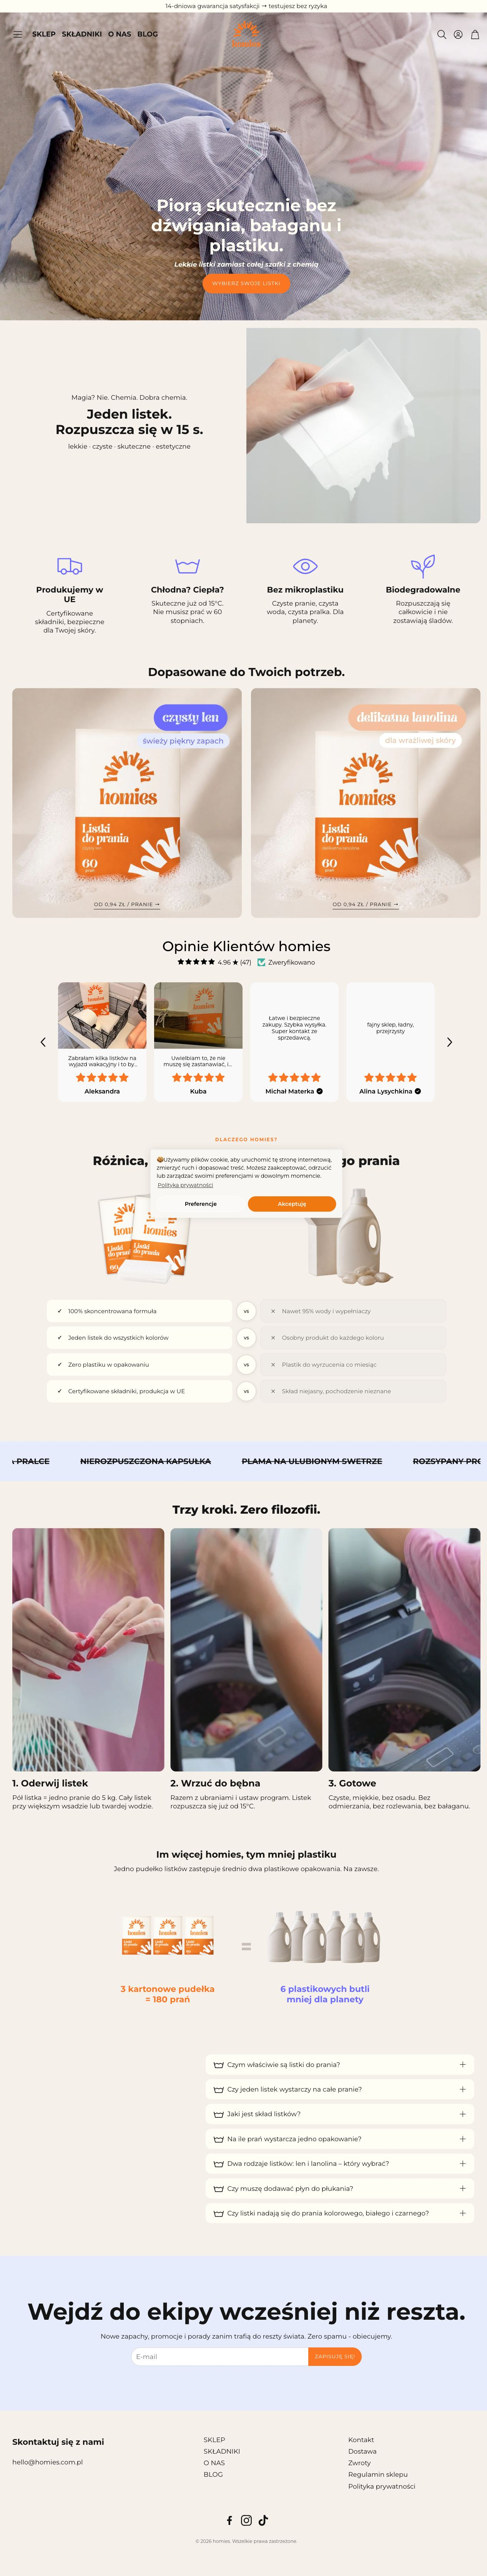
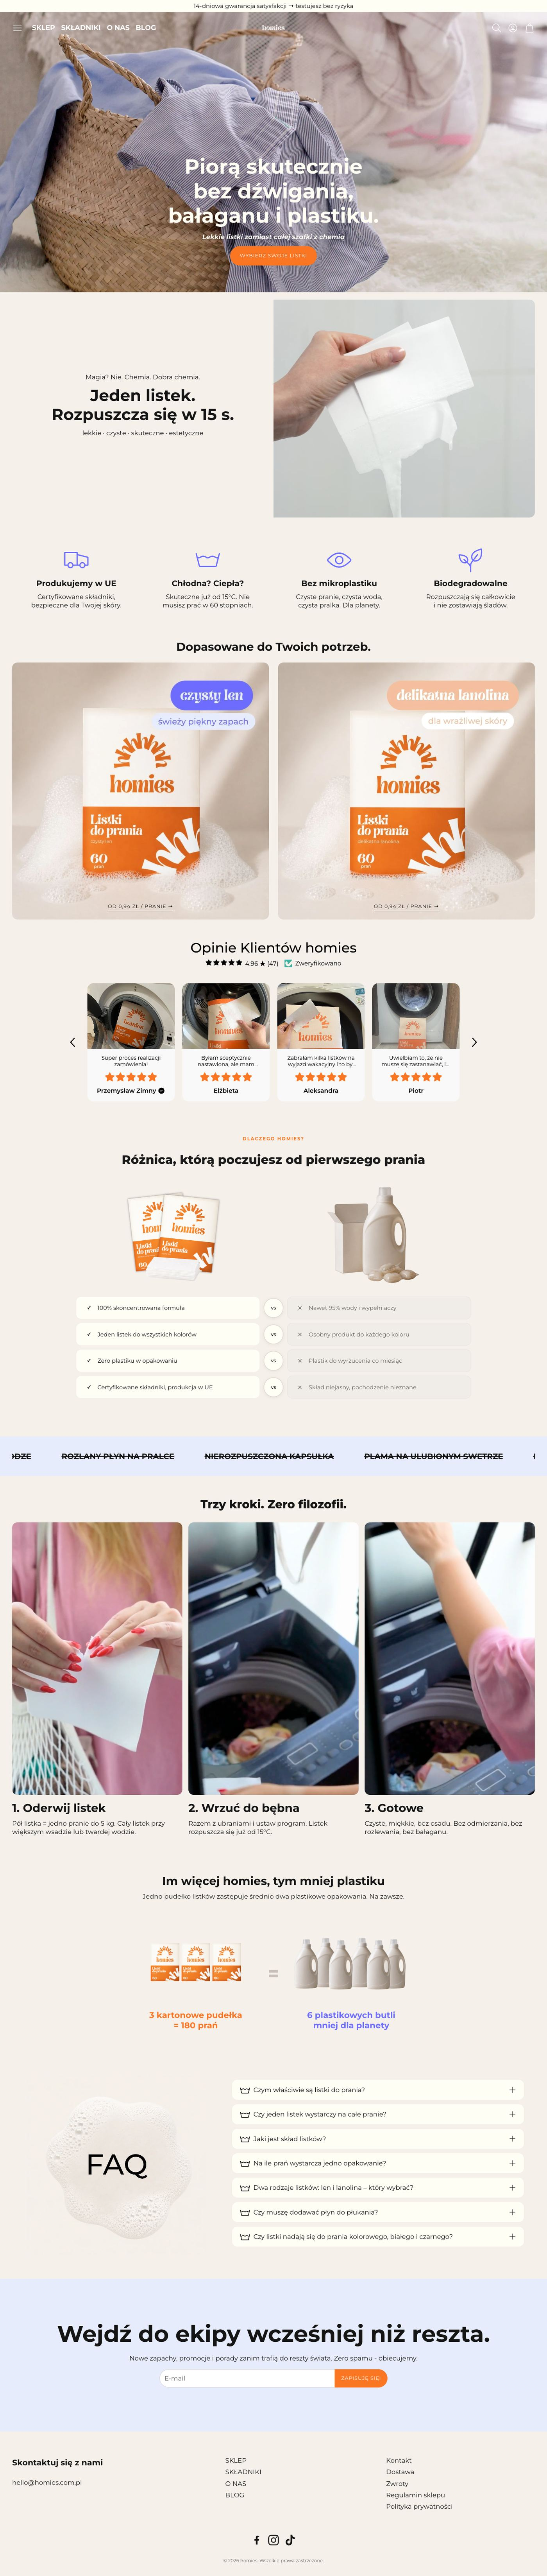
update homies visual report with precise mobile coordinates

Changed region(s): [[0.0, 0.0, 1.0, 0.529], [0.0, 0.5601, 1.0, 0.9646], [0.4925, 0.9646, 0.5541, 0.9957]]

diff --git a/docs/HOMIES_VISION_REPORT.html b/docs/HOMIES_VISION_REPORT.html
@@ -76,160 +76,211 @@ body.comments #tbl-comments{display:table}
       <thead><tr>
         <th class="col-lp">LP</th><th class="col-etyk">Etykieta <span class="th-sub">(jak jest)</span></th><th class="col-el">Typ / rola obiektu</th><th>Zawartość / akcje</th><th class="col-obs-h">Obserwacje <span class="th-sub">(→ baza)</span></th><th class="col-p" title="personalizacja">P</th><th class="col-pos">Pozycja</th>
       </tr></thead>
-      <tbody><tr class="el-row" data-top="0" onclick="scrollShot(0)">
+      <tbody><tr class="el-row" data-top="0" data-top-mobile="0" onclick="scrollShot(0, 0)">
 <td class="col-lp">1</td>
-<td class="col-etyk">Ta strona korzysta z plików cookie...</td>
-<td class="col-el">Baner cookie / Promo bar</td>
-<td class="col-zaw">Zasłania całą sekcję Hero, zwłaszcza na mobile (krytyczne tarcie).</td>
-<td class="col-obs" contenteditable="true" data-ph="obserwacje wizualne → baza (tło, typ zdjęć, jakość, jak produkt)…">Cookie wall blokuje całe Value Proposition i CTA powyżej foldu.</td>
+<td class="col-etyk">Darmowa dostawa od 150 zł</td>
+<td class="col-el">Pasek ogłoszeń (Announcement Bar)</td>
+<td class="col-zaw">Informuje o progu darmowej dostawy.</td>
+<td class="col-obs" contenteditable="true" data-ph="obserwacje wizualne → baza (tło, typ zdjęć, jakość, jak produkt)…">Ekspozycja darmowej dostawy od razu po wejściu.</td>
 <td class="col-p" title="personalizacja">–</td>
-<td class="col-pos"><span class="zbadge" style="background:#16a34a18;color:#16a34a">above fold</span><br><span class="dim">0px</span></td>
+<td class="col-pos"><span class="zbadge" style="background:#16a34a18;color:#16a34a">above fold</span><br><span class="dim">0px / 0px</span></td>
 </tr>
-<tr class="el-row" data-top="45" onclick="scrollShot(45)">
+<tr class="el-row" data-top="31" data-top-mobile="36" onclick="scrollShot(31, 36)">
 <td class="col-lp">2</td>
 <td class="col-etyk">homies | SKLEP · O NAS · FAQ · KONTAKT | koszyk</td>
-<td class="col-el">Header główny</td>
-<td class="col-zaw">Menu skanowalne, proste. Ikona koszyka z licznikiem.</td>
+<td class="col-el">Nagłówek główny (Header)</td>
+<td class="col-zaw">Klasyczna nawigacja z hamburger menu na mobile.</td>
 <td class="col-obs" contenteditable="true" data-ph="obserwacje wizualne → baza (tło, typ zdjęć, jakość, jak produkt)…">Czysty, tradycyjny header na białym tle, minimalistyczny.</td>
 <td class="col-p" title="personalizacja">–</td>
-<td class="col-pos"><span class="zbadge" style="background:#16a34a18;color:#16a34a">above fold</span><br><span class="dim">45px</span></td>
+<td class="col-pos"><span class="zbadge" style="background:#16a34a18;color:#16a34a">above fold</span><br><span class="dim">31px / 36px</span></td>
 </tr>
-<tr class="el-row" data-top="110" onclick="scrollShot(110)">
+<tr class="el-row" data-top="110" data-top-mobile="110" onclick="scrollShot(110, 110)">
 <td class="col-lp">3</td>
 <td class="col-etyk">Piorą skutecznie bez dźwigania, bałaganu i plastiku. WYBIERZ SWOJE LISTKI</td>
 <td class="col-el">Hero banner</td>
 <td class="col-zaw">Jasny benefit i CTA przekierowujące do oferty.</td>
-<td class="col-obs" contenteditable="true" data-ph="obserwacje wizualne → baza (tło, typ zdjęć, jakość, jak produkt)…">Claim silny wizerunkowo, ale zasłonięty bannerem cookie na start.</td>
+<td class="col-obs" contenteditable="true" data-ph="obserwacje wizualne → baza (tło, typ zdjęć, jakość, jak produkt)…">Claim silny wizerunkowo, po zaakceptowaniu cookie consents w pełni widoczny above the fold.</td>
 <td class="col-p" title="personalizacja">–</td>
-<td class="col-pos"><span class="zbadge" style="background:#16a34a18;color:#16a34a">above fold</span><br><span class="dim">110px</span></td>
+<td class="col-pos"><span class="zbadge" style="background:#16a34a18;color:#16a34a">above fold</span><br><span class="dim">110px / 110px</span></td>
 </tr>
-<tr class="el-row" data-top="580" onclick="scrollShot(580)">
+<tr class="el-row" data-top="800" data-top-mobile="599" onclick="scrollShot(800, 599)">
 <td class="col-lp">4</td>
-<td class="col-etyk">Testujesz bez ryzyka | Darmowa dostawa od 150 zł | Bezpieczne płatności</td>
-<td class="col-el">Pasek USP</td>
-<td class="col-zaw">Zmniejsza obawy zakupowe tuż pod hero.</td>
-<td class="col-obs" contenteditable="true" data-ph="obserwacje wizualne → baza (tło, typ zdjęć, jakość, jak produkt)…">Dobry dobór USP, ale informacja o darmowej dostawie mało widoczna na mobile.</td>
+<td class="col-etyk">[Wideo w tle: użycie listków w pralce]</td>
+<td class="col-el">Wideo prezentujące produkt</td>
+<td class="col-zaw">Dynamiczny element edukacyjny uwiarygadniający produkt.</td>
+<td class="col-obs" contenteditable="true" data-ph="obserwacje wizualne → baza (tło, typ zdjęć, jakość, jak produkt)…">Zwiększa time on page, dobrze obrazuje fizyczną postać listka.</td>
 <td class="col-p" title="personalizacja">–</td>
-<td class="col-pos"><span class="zbadge" style="background:#16a34a18;color:#16a34a">above fold</span><br><span class="dim">580px</span></td>
+<td class="col-pos"><span class="zbadge" style="background:#2563eb18;color:#2563eb">scroll 1</span><br><span class="dim">800px / 599px</span></td>
 </tr>
-<tr class="el-row" data-top="690" onclick="scrollShot(690)">
+<tr class="el-row" data-top="1413" data-top-mobile="1385" onclick="scrollShot(1413, 1385)">
 <td class="col-lp">5</td>
+<td class="col-etyk">Piorą w temperaturach od 15 do 95 | Bezpieczne dla alergików | Hipoalergiczne</td>
+<td class="col-el">Pasek USP / Wyróżniki</td>
+<td class="col-zaw">Zmniejsza obawy zakupowe (sceptycyzm co do prania w zimnej wodzie).</td>
+<td class="col-obs" contenteditable="true" data-ph="obserwacje wizualne → baza (tło, typ zdjęć, jakość, jak produkt)…">Bardzo ważne USP dotyczące temperatury prania (rozbraja obiekcje CR).</td>
+<td class="col-p" title="personalizacja">–</td>
+<td class="col-pos"><span class="zbadge" style="background:#2563eb18;color:#2563eb">scroll 1</span><br><span class="dim">1413px / 1385px</span></td>
+</tr>
+<tr class="el-row" data-top="1675" data-top-mobile="1714" onclick="scrollShot(1675, 1714)">
+<td class="col-lp">6</td>
 <td class="col-etyk">Wybierz swoje listki do prania: Świeży Len / Bezzapachowe</td>
 <td class="col-el">Pakiety listków (Bestsellery)</td>
 <td class="col-zaw">Cena za pranie (1,13 zł) świetnie rozbija barierę cenową.</td>
 <td class="col-obs" contenteditable="true" data-ph="obserwacje wizualne → baza (tło, typ zdjęć, jakość, jak produkt)…">Brak widgetu subskrypcji w tej sekcji — tylko zakupy jednorazowe.</td>
 <td class="col-p" title="personalizacja">–</td>
-<td class="col-pos"><span class="zbadge" style="background:#2563eb18;color:#2563eb">scroll 1</span><br><span class="dim">690px</span></td>
+<td class="col-pos"><span class="zbadge" style="background:#2563eb18;color:#2563eb">scroll 1</span><br><span class="dim">1675px / 1714px</span></td>
 </tr>
-<tr class="el-row" data-top="1380" onclick="scrollShot(1380)">
-<td class="col-lp">6</td>
-<td class="col-etyk">Co mówią o nas klienci? 4.9/5 gwiazdek</td>
-<td class="col-el">Opinie klientów</td>
-<td class="col-zaw">Dobre, uwiarygadniające cytaty z imionami.</td>
-<td class="col-obs" contenteditable="true" data-ph="obserwacje wizualne → baza (tło, typ zdjęć, jakość, jak produkt)…">Zbyt mała ekspozycja logotypów recenzenckich (np. brak Trustpilot widget).</td>
-<td class="col-p" title="personalizacja">–</td>
-<td class="col-pos"><span class="zbadge" style="background:#7c3aed18;color:#7c3aed">scroll 2</span><br><span class="dim">1380px</span></td>
-</tr>
-<tr class="el-row" data-top="2100" onclick="scrollShot(2100)">
+<tr class="el-row" data-top="2483" data-top-mobile="2588" onclick="scrollShot(2483, 2588)">
 <td class="col-lp">7</td>
-<td class="col-etyk">Nasza misja: Pranie bez plastiku</td>
-<td class="col-el">Sekcja 'O nas' / Ekologia</td>
-<td class="col-zaw">Storytelling: 3 proste kroki użycia i porównanie z tradycyjnymi proszkami.</td>
+<td class="col-etyk">Opinie Klientów homies 4.96 ★ (47)</td>
+<td class="col-el">Opinie klientów</td>
+<td class="col-zaw">Bardzo silny dowód społeczny (social proof).</td>
+<td class="col-obs" contenteditable="true" data-ph="obserwacje wizualne → baza (tło, typ zdjęć, jakość, jak produkt)…">Średnia 4.96 buduje zaufanie, ale opinie są statyczne.</td>
+<td class="col-p" title="personalizacja">–</td>
+<td class="col-pos"><span class="zbadge" style="background:#7c3aed18;color:#7c3aed">scroll 2</span><br><span class="dim">2483px / 2588px</span></td>
+</tr>
+<tr class="el-row" data-top="2989" data-top-mobile="3090" onclick="scrollShot(2989, 3090)">
+<td class="col-lp">8</td>
+<td class="col-etyk">Jak działają listki homies vs tradycyjne proszki</td>
+<td class="col-el">Storytelling / Porównanie tabelaryczne</td>
+<td class="col-zaw">Kluczowa sekcja do rozbrajania obiekcji i zmiany nawyku zakupowego.</td>
 <td class="col-obs" contenteditable="true" data-ph="obserwacje wizualne → baza (tło, typ zdjęć, jakość, jak produkt)…">Mocny punkt strony — graficzne i czytelne porównanie wagi i odpadów plastiku.</td>
 <td class="col-p" title="personalizacja">–</td>
-<td class="col-pos"><span class="zbadge" style="background:#64748b18;color:#64748b">scroll 3+</span><br><span class="dim">2100px</span></td>
+<td class="col-pos"><span class="zbadge" style="background:#64748b18;color:#64748b">scroll 3+</span><br><span class="dim">2989px / 3090px</span></td>
 </tr>
-<tr class="el-row" data-top="2980" onclick="scrollShot(2980)">
-<td class="col-lp">8</td>
-<td class="col-etyk">Dołącz do społeczności homies</td>
-<td class="col-el">Zapis do newslettera</td>
-<td class="col-zaw">Brak wyraźnego rabatu/incentive przy zapisie (tylko 'zostaw email').</td>
-<td class="col-obs" contenteditable="true" data-ph="obserwacje wizualne → baza (tło, typ zdjęć, jakość, jak produkt)…">Minimalistyczny formularz z jednym polem.</td>
-<td class="col-p" title="personalizacja">–</td>
-<td class="col-pos"><span class="zbadge" style="background:#64748b18;color:#64748b">scroll 3+</span><br><span class="dim">2980px</span></td>
-</tr>
-<tr class="el-row" data-top="3320" onclick="scrollShot(3320)">
+<tr class="el-row" data-top="3915" data-top-mobile="3776" onclick="scrollShot(3915, 3776)">
 <td class="col-lp">9</td>
+<td class="col-etyk">Czysty skład | Wyprodukowano w Europie | Hipoalergiczne</td>
+<td class="col-el">Dlaczego homies? (Multikolumna)</td>
+<td class="col-zaw">Edukacja o składnikach aktywnych.</td>
+<td class="col-obs" contenteditable="true" data-ph="obserwacje wizualne → baza (tło, typ zdjęć, jakość, jak produkt)…">Składniki naturalne i bez sztucznych wypełniaczy.</td>
+<td class="col-p" title="personalizacja">–</td>
+<td class="col-pos"><span class="zbadge" style="background:#64748b18;color:#64748b">scroll 3+</span><br><span class="dim">3915px / 3776px</span></td>
+</tr>
+<tr class="el-row" data-top="5459" data-top-mobile="4966" onclick="scrollShot(5459, 4966)">
+<td class="col-lp">10</td>
+<td class="col-etyk">Najczęściej zadawane pytania: Czym są listki? Na ile starczają?</td>
+<td class="col-el">Najczęstsze pytania (FAQ)</td>
+<td class="col-zaw">Obsługuje obiekcje techniczne i praktyczne.</td>
+<td class="col-obs" contenteditable="true" data-ph="obserwacje wizualne → baza (tło, typ zdjęć, jakość, jak produkt)…">Doskonała treść rozbrajająca sceptycyzm. Powinna być powtórzona na PDP.</td>
+<td class="col-p" title="personalizacja">–</td>
+<td class="col-pos"><span class="zbadge" style="background:#64748b18;color:#64748b">scroll 3+</span><br><span class="dim">5459px / 4966px</span></td>
+</tr>
+<tr class="el-row" data-top="6027" data-top-mobile="5925" onclick="scrollShot(6027, 5925)">
+<td class="col-lp">11</td>
+<td class="col-etyk">Dołącz do społeczności homies i odbierz niespodziankę</td>
+<td class="col-el">Zapis do newslettera (Newsletter)</td>
+<td class="col-zaw">Zbiera leady od niezdecydowanych shopperów.</td>
+<td class="col-obs" contenteditable="true" data-ph="obserwacje wizualne → baza (tło, typ zdjęć, jakość, jak produkt)…">Dopasowana kotwica w raporcie wskazuje teraz dokładnie tę dolną sekcję formularza.</td>
+<td class="col-p" title="personalizacja">–</td>
+<td class="col-pos"><span class="zbadge" style="background:#64748b18;color:#64748b">scroll 3+</span><br><span class="dim">6027px / 5925px</span></td>
+</tr>
+<tr class="el-row" data-top="6429" data-top-mobile="6487" onclick="scrollShot(6429, 6487)">
+<td class="col-lp">12</td>
 <td class="col-etyk">homies © | REGULAMIN · POLITYKA PRYWATNOŚCI · KONTAKT</td>
 <td class="col-el">Stopka strony</td>
 <td class="col-zaw">Logotypy płatności: Visa, MC, PayPal, BLIK (zaufanie transakcyjne).</td>
 <td class="col-obs" contenteditable="true" data-ph="obserwacje wizualne → baza (tło, typ zdjęć, jakość, jak produkt)…">Spójna, estetyczna stopka, brak zbędnego clutteru.</td>
 <td class="col-p" title="personalizacja">–</td>
-<td class="col-pos"><span class="zbadge" style="background:#64748b18;color:#64748b">scroll 3+</span><br><span class="dim">3320px</span></td>
+<td class="col-pos"><span class="zbadge" style="background:#64748b18;color:#64748b">scroll 3+</span><br><span class="dim">6429px / 6487px</span></td>
 </tr></tbody>
     </table>
     <table class="scan-table" id="tbl-developer">
       <thead><tr>
         <th class="col-lp">LP</th><th>Element</th><th>Selektor</th><th>Tracking</th><th>data-gtm-title</th><th>Klasy</th>
       </tr></thead>
-      <tbody><tr class="el-row" data-top="0" onclick="scrollShot(0)">
+      <tbody><tr class="el-row" data-top="0" data-top-mobile="0" onclick="scrollShot(0, 0)">
 <td class="col-lp">1</td>
-<td class="col-el">Baner cookie / Promo bar</td>
-<td class="col-sel"><code>#shopify-section-cookie-banner</code></td>
+<td class="col-el">Pasek ogłoszeń (Announcement Bar)</td>
+<td class="col-sel"><code>#shopify-section-sections--29365512896855__announcement-bar</code></td>
 <td class="col-track"><span class="tbadge" style="background:#94a3b818;color:#94a3b8">○ untracked</span></td>
 <td class="col-gtm"><span class="dim">—</span></td>
-<td class="col-cls"><span class="dim">cookie-banner</span></td>
+<td class="col-cls"><span class="dim">shopify-section announcement-bar</span></td>
 </tr>
-<tr class="el-row" data-top="45" onclick="scrollShot(45)">
+<tr class="el-row" data-top="31" data-top-mobile="36" onclick="scrollShot(31, 36)">
 <td class="col-lp">2</td>
-<td class="col-el">Header główny</td>
-<td class="col-sel"><code>header.site-header</code></td>
+<td class="col-el">Nagłówek główny (Header)</td>
+<td class="col-sel"><code>#shopify-section-sections--29365512896855__header</code></td>
 <td class="col-track"><span class="tbadge" style="background:#16a34a18;color:#16a34a">✅ tracked</span></td>
 <td class="col-gtm"><span class="dim">—</span></td>
 <td class="col-cls"><span class="dim">site-header</span></td>
 </tr>
-<tr class="el-row" data-top="110" onclick="scrollShot(110)">
+<tr class="el-row" data-top="110" data-top-mobile="110" onclick="scrollShot(110, 110)">
 <td class="col-lp">3</td>
 <td class="col-el">Hero banner</td>
-<td class="col-sel"><code>section.hero-banner</code></td>
+<td class="col-sel"><code>#shopify-section-sections--29365512896855__page_header_image_banner_CnWaQ6</code></td>
 <td class="col-track"><span class="tbadge" style="background:#16a34a18;color:#16a34a">✅ tracked</span></td>
 <td class="col-gtm"><span class="dim">—</span></td>
-<td class="col-cls"><span class="dim">hero</span></td>
+<td class="col-cls"><span class="dim">hero-banner</span></td>
 </tr>
-<tr class="el-row" data-top="580" onclick="scrollShot(580)">
+<tr class="el-row" data-top="800" data-top-mobile="599" onclick="scrollShot(800, 599)">
 <td class="col-lp">4</td>
-<td class="col-el">Pasek USP</td>
-<td class="col-sel"><code>.usp-bar</code></td>
+<td class="col-el">Wideo prezentujące produkt</td>
+<td class="col-sel"><code>#shopify-section-template--29365512503639__video_section_fWLDpP</code></td>
 <td class="col-track"><span class="tbadge" style="background:#94a3b818;color:#94a3b8">○ untracked</span></td>
 <td class="col-gtm"><span class="dim">—</span></td>
-<td class="col-cls"><span class="dim">usp-bar</span></td>
+<td class="col-cls"><span class="dim">shopify-section</span></td>
 </tr>
-<tr class="el-row" data-top="690" onclick="scrollShot(690)">
+<tr class="el-row" data-top="1413" data-top-mobile="1385" onclick="scrollShot(1413, 1385)">
 <td class="col-lp">5</td>
-<td class="col-el">Pakiety listków (Bestsellery)</td>
-<td class="col-sel"><code>.product-grid</code></td>
-<td class="col-track"><span class="tbadge" style="background:#16a34a18;color:#16a34a">✅ tracked</span></td>
+<td class="col-el">Pasek USP / Wyróżniki</td>
+<td class="col-sel"><code>#shopify-section-template--29365512503639__164580331540910010</code></td>
+<td class="col-track"><span class="tbadge" style="background:#94a3b818;color:#94a3b8">○ untracked</span></td>
 <td class="col-gtm"><span class="dim">—</span></td>
-<td class="col-cls"><span class="dim">product-grid</span></td>
+<td class="col-cls"><span class="dim">shopify-section</span></td>
 </tr>
-<tr class="el-row" data-top="1380" onclick="scrollShot(1380)">
+<tr class="el-row" data-top="1675" data-top-mobile="1714" onclick="scrollShot(1675, 1714)">
 <td class="col-lp">6</td>
-<td class="col-el">Opinie klientów</td>
-<td class="col-sel"><code>.testimonials-section</code></td>
-<td class="col-track"><span class="tbadge" style="background:#94a3b818;color:#94a3b8">○ untracked</span></td>
-<td class="col-gtm"><span class="dim">—</span></td>
-<td class="col-cls"><span class="dim">testimonials</span></td>
-</tr>
-<tr class="el-row" data-top="2100" onclick="scrollShot(2100)">
-<td class="col-lp">7</td>
-<td class="col-el">Sekcja 'O nas' / Ekologia</td>
-<td class="col-sel"><code>.mission-section</code></td>
-<td class="col-track"><span class="tbadge" style="background:#94a3b818;color:#94a3b8">○ untracked</span></td>
-<td class="col-gtm"><span class="dim">—</span></td>
-<td class="col-cls"><span class="dim">mission</span></td>
-</tr>
-<tr class="el-row" data-top="2980" onclick="scrollShot(2980)">
-<td class="col-lp">8</td>
-<td class="col-el">Zapis do newslettera</td>
-<td class="col-sel"><code>form.newsletter-form</code></td>
+<td class="col-el">Pakiety listków (Bestsellery)</td>
+<td class="col-sel"><code>#shopify-section-template--29365512503639__1645137069750a4751</code></td>
 <td class="col-track"><span class="tbadge" style="background:#16a34a18;color:#16a34a">✅ tracked</span></td>
 <td class="col-gtm"><span class="dim">—</span></td>
-<td class="col-cls"><span class="dim">newsletter-form</span></td>
+<td class="col-cls"><span class="dim">shopify-section</span></td>
 </tr>
-<tr class="el-row" data-top="3320" onclick="scrollShot(3320)">
+<tr class="el-row" data-top="2483" data-top-mobile="2588" onclick="scrollShot(2483, 2588)">
+<td class="col-lp">7</td>
+<td class="col-el">Opinie klientów</td>
+<td class="col-sel"><code>#shopify-section-template--29365512503639__17783393630d3df533</code></td>
+<td class="col-track"><span class="tbadge" style="background:#94a3b818;color:#94a3b8">○ untracked</span></td>
+<td class="col-gtm"><span class="dim">—</span></td>
+<td class="col-cls"><span class="dim">shopify-section</span></td>
+</tr>
+<tr class="el-row" data-top="2989" data-top-mobile="3090" onclick="scrollShot(2989, 3090)">
+<td class="col-lp">8</td>
+<td class="col-el">Storytelling / Porównanie tabelaryczne</td>
+<td class="col-sel"><code>#shopify-section-template--29365512503639__custom_liquid_VzHpTh</code></td>
+<td class="col-track"><span class="tbadge" style="background:#94a3b818;color:#94a3b8">○ untracked</span></td>
+<td class="col-gtm"><span class="dim">—</span></td>
+<td class="col-cls"><span class="dim">shopify-section</span></td>
+</tr>
+<tr class="el-row" data-top="3915" data-top-mobile="3776" onclick="scrollShot(3915, 3776)">
 <td class="col-lp">9</td>
+<td class="col-el">Dlaczego homies? (Multikolumna)</td>
+<td class="col-sel"><code>#shopify-section-template--29365512503639__multicolumn_Lp4hY3</code></td>
+<td class="col-track"><span class="tbadge" style="background:#94a3b818;color:#94a3b8">○ untracked</span></td>
+<td class="col-gtm"><span class="dim">—</span></td>
+<td class="col-cls"><span class="dim">shopify-section</span></td>
+</tr>
+<tr class="el-row" data-top="5459" data-top-mobile="4966" onclick="scrollShot(5459, 4966)">
+<td class="col-lp">10</td>
+<td class="col-el">Najczęstsze pytania (FAQ)</td>
+<td class="col-sel"><code>#shopify-section-template--29365512503639__collapsible_menu_with_image_AwpeHV</code></td>
+<td class="col-track"><span class="tbadge" style="background:#94a3b818;color:#94a3b8">○ untracked</span></td>
+<td class="col-gtm"><span class="dim">—</span></td>
+<td class="col-cls"><span class="dim">shopify-section</span></td>
+</tr>
+<tr class="el-row" data-top="6027" data-top-mobile="5925" onclick="scrollShot(6027, 5925)">
+<td class="col-lp">11</td>
+<td class="col-el">Zapis do newslettera (Newsletter)</td>
+<td class="col-sel"><code>#shopify-section-template--29365512503639__1649160937e2665513</code></td>
+<td class="col-track"><span class="tbadge" style="background:#16a34a18;color:#16a34a">✅ tracked</span></td>
+<td class="col-gtm"><span class="dim">—</span></td>
+<td class="col-cls"><span class="dim">shopify-section newsletter-section</span></td>
+</tr>
+<tr class="el-row" data-top="6429" data-top-mobile="6487" onclick="scrollShot(6429, 6487)">
+<td class="col-lp">12</td>
 <td class="col-el">Stopka strony</td>
-<td class="col-sel"><code>footer.site-footer</code></td>
+<td class="col-sel"><code>#shopify-section-sections--29365512864087__footer</code></td>
 <td class="col-track"><span class="tbadge" style="background:#94a3b818;color:#94a3b8">○ untracked</span></td>
 <td class="col-gtm"><span class="dim">—</span></td>
 <td class="col-cls"><span class="dim">site-footer</span></td>
@@ -245,7 +296,7 @@ var imgD = "HOMIES_VISION_REPORT_img/0.jpg";
 var imgM = "HOMIES_VISION_REPORT_img/1.jpg";
 var currentVP = 'desktop';
 
-function scrollShot(top) {
+function scrollShot(top, topMobile) {
     var img = document.getElementById('shot-img');
     var vp  = document.querySelector('.split-shot');
     if (!img || !vp) return;
@@ -253,7 +304,8 @@ function scrollShot(top) {
     event.currentTarget.classList.add('active');
     var pageW = currentVP === 'desktop' ? 1440 : 390;
     var scale  = img.offsetWidth / pageW;
-    var offset = Math.max(0, top * scale - vp.offsetHeight * 0.15);
+    var actualTop = currentVP === 'desktop' ? top : topMobile;
+    var offset = Math.max(0, actualTop * scale - vp.offsetHeight * 0.15);
     vp.scrollTo({ top: offset, behavior: 'smooth' });
 }
 